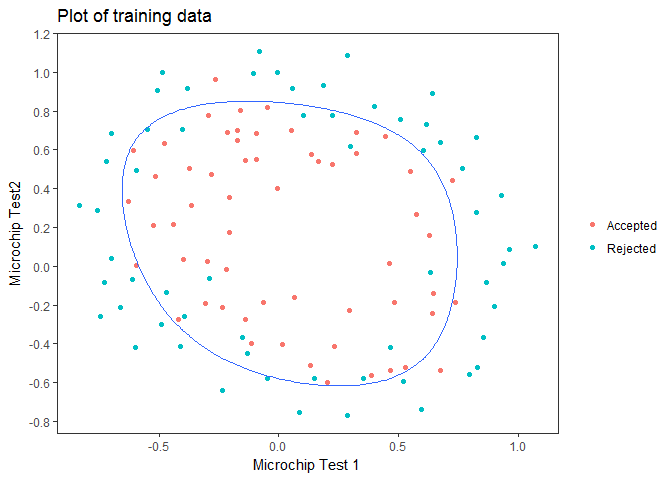
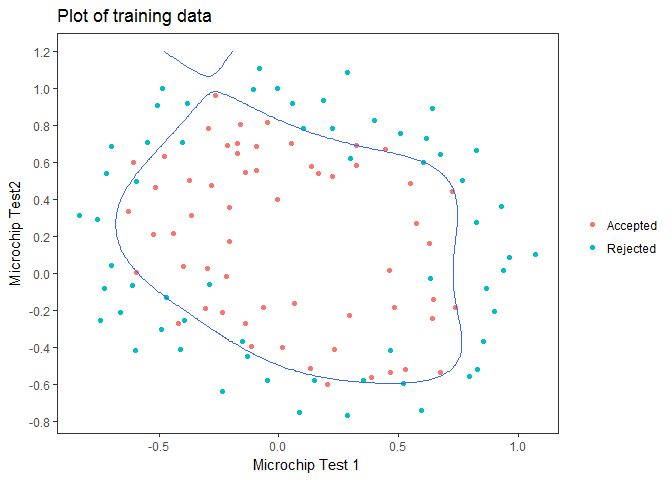
update

diff --git a/Cousera_ML_Assignment/Coursera_ML_Assignment2.md b/Cousera_ML_Assignment/Coursera_ML_Assignment2.md
@@ -310,12 +310,17 @@ p_w_decisonboundary
 
 In this part, we get to try out different regularization parameters for the dataset to understand how regularization prevents overfitting
 
-``` r
-# Case 1
-# lambda = 1, Not too small not too large lambda
-lambda1 = 1
+#### Case 1 (Overfitting)
 
-optimRes1 = optim(par = initial_theta, fn = costFunction(X, y, lambda1), gr = computeGradient(X, y, lambda1), method = "BFGS", control = list(maxit = 400))
+lambda = 0, very small lambda
+
+``` r
+lambda1 = 0
+
+optimRes1 = optim(par = initial_theta,
+                  fn = costFunction(X, y, lambda1),
+                  gr = computeGradient(X, y, lambda1),
+                  method = "BFGS", control = list(maxit = 400))
 
 # saving result
 theta1 = optimRes1$par
@@ -325,18 +330,25 @@ boundary1 = draw_boundary(seq(-1, 1.5, length = 200),
                          seq(-0.8, 1.2, length = 200), theta1, 6)
 
 # plotting
-p_w_decisonboundary1 = p + geom_contour(data = boundary1, aes(x = u, y = v, z = z), breaks = 0.5) 
+p_w_decisonboundary1 = p +
+  geom_contour(data = boundary1, aes(x = u, y = v, z = z),
+               breaks = 0.5) 
 p_w_decisonboundary1
 ```
 
 ![](Coursera_ML_Assignment2_files/figure-markdown_github-ascii_identifiers/diffent%20lambda-1.png)
 
-``` r
-# Case 2 (Overfitting)
-# lambda = 0, very small lambda
-lambda2 = 0
+#### Case 2 (Underfitting)
 
-optimRes2 = optim(par = initial_theta, fn = costFunction(X, y, lambda2), gr = computeGradient(X, y, lambda2), method = "BFGS", control = list(maxit = 400))
+lambda = 100, very large lambda
+
+``` r
+lambda2 = 100
+
+optimRes2 = optim(par = initial_theta,
+                  fn = costFunction(X, y, lambda2),
+                  gr = computeGradient(X, y, lambda2),
+                  method = "BFGS", control = list(maxit = 400))
 
 # saving result
 theta2 = optimRes2$par
@@ -346,29 +358,10 @@ boundary2 = draw_boundary(seq(-1, 1.5, length = 200),
                          seq(-0.8, 1.2, length = 200), theta2, 6)
 
 # plotting
-p_w_decisonboundary2 = p + geom_contour(data = boundary2, aes(x = u, y = v, z = z), breaks = 0.5) 
+p_w_decisonboundary2 = p + 
+  geom_contour(data = boundary2, aes(x = u, y = v, z = z),
+               breaks = 0.5) 
 p_w_decisonboundary2
 ```
 
-![](Coursera_ML_Assignment2_files/figure-markdown_github-ascii_identifiers/diffent%20lambda-2.png)
-
-``` r
-# Case 3(Underfitting)
-# lambda = 100, very large lambda
-lambda3 = 100
-
-optimRes3 = optim(par = initial_theta, fn = costFunction(X, y, lambda3), gr = computeGradient(X, y, lambda3), method = "BFGS", control = list(maxit = 400))
-
-# saving result
-theta3 = optimRes3$par
-
-# Making 'boundary' data.frame having grid and H value
-boundary3 = draw_boundary(seq(-1, 1.5, length = 200), 
-                         seq(-0.8, 1.2, length = 200), theta3, 6)
-
-# plotting
-p_w_decisonboundary3 = p + geom_contour(data = boundary3, aes(x = u, y = v, z = z), breaks = 0.5) 
-p_w_decisonboundary3
-```
-
-![](Coursera_ML_Assignment2_files/figure-markdown_github-ascii_identifiers/diffent%20lambda-3.png)
+![](Coursera_ML_Assignment2_files/figure-markdown_github-ascii_identifiers/underfitting-1.png)
